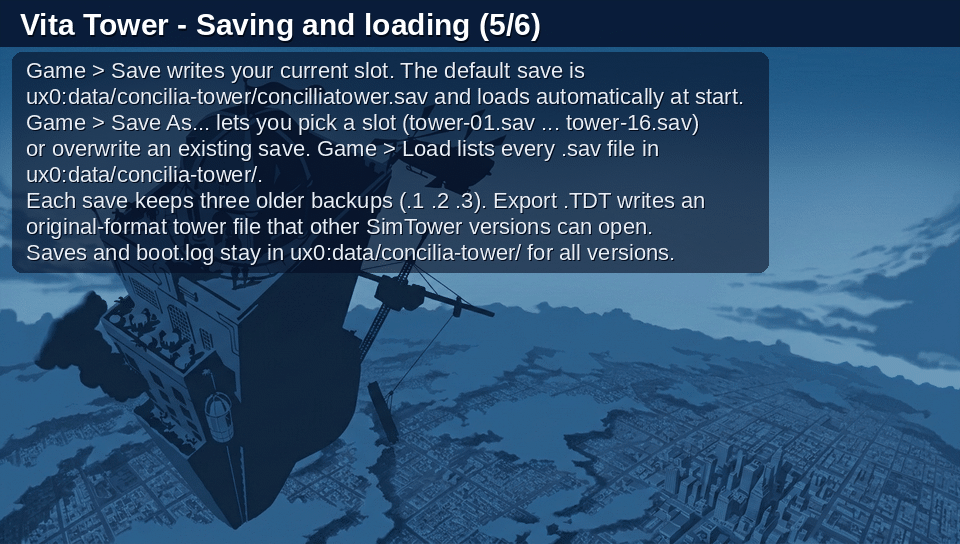
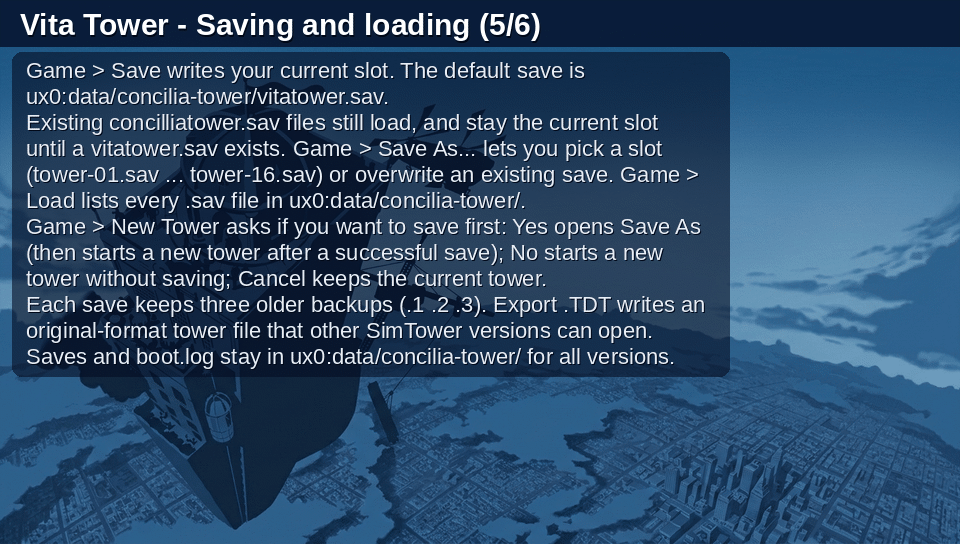
Vita v0.16: New Tower save prompt, default save name vitatower
Ask before starting a new tower when one is already in progress, so a
menu slip cannot wipe unsaved work. Yes always opens Save As; a
successful save then starts the new tower, and backing out of Save As
keeps the current tower. No starts a new tower without saving; Cancel
stays put. The prompt is skipped only on a fresh empty lot.

The default save file is now vitatower.sav. The folder remains
ux0:data/concilia-tower/, and existing concilliatower.sav files still
load.

Changed region(s): [[0.0, 0.0938, 0.8125, 0.7188]]

diff --git a/src/main.c b/src/main.c
@@ -550,6 +550,10 @@ typedef struct {
                                         (FileT 10d0:2a8e; strings survey
                                         gap #5) */
     GameSpeed       quit_saved_speed;
+#ifdef __vita__
+    int             new_tower_confirm;     /* save-before-New-Tower prompt */
+    GameSpeed       new_tower_saved_speed;
+#endif
     char            notice_text[192];
     char            notice_btn[32];
     uint16_t        notice_art;      /* sprite id of the dialog's DTMP art
@@ -4578,10 +4582,16 @@ static int  event_msg_total = 0;
  * snapshotted ENV, so an env var can no longer carry it. */
 #ifdef __vita__
 static int save_dialog_mode,save_dialog_page,save_dialog_count;
+static int new_tower_after_saveas; /* Yes on New Tower: Save As, then start new */
 static char save_dialog_names[96][CT_SAVE_NAME_MAX];
 static void open_save_dialog(int mode);
 static void render_save_dialog(void);
 static void save_dialog_event(SDL_Event *ev);
+static void start_new_tower(void);
+static void cancel_pending_new_tower(void);
+static void request_new_tower(void);
+static void render_new_tower_confirm(void);
+static void new_tower_confirm_click(int mx, int my);
 #endif
 static const char *save_path_override = NULL;
 static const char *save_path(void)
@@ -6334,6 +6344,53 @@ static void quit_confirm_click(int mx, int my)
         game.sim.speed = game.quit_saved_speed;
     }
 }
+
+#ifdef __vita__
+/* ---- New Tower save prompt: Yes = Save As, then start new on success ---- */
+#define NEWT_W 420
+#define NEWT_H 140
+
+static SDL_Rect newt_btn(int i)   /* 0 Yes / 1 No / 2 Cancel; 26px like other dialogs */
+{
+    int wx = (game.screen_w - NEWT_W) / 2;
+    int wy = (game.screen_h - NEWT_H) / 2;
+    int bw = 100, bh = 26, gap = 16;
+    int total = 3 * bw + 2 * gap;
+    int bx = wx + (NEWT_W - total) / 2;
+    return (SDL_Rect){ bx + i * (bw + gap), wy + NEWT_H - 40, bw, bh };
+}
+
+static void render_new_tower_confirm(void)
+{
+    if (!game.new_tower_confirm) return;
+    int wx = (game.screen_w - NEWT_W) / 2;
+    int wy = (game.screen_h - NEWT_H) / 2;
+    draw_dlg_frame((SDL_Rect){ wx, wy, NEWT_W, NEWT_H });
+    SDL_Color black = { 0, 0, 0, 255 };
+    draw_text_wrapped("Would you like to save your tower before starting a new one?",
+                      wx + 18, wy + 20, NEWT_W - 36, black);
+    draw_btn31(newt_btn(0), "Yes", 1, 1);   /* default / highlighted */
+    draw_btn31(newt_btn(1), "No", 0, 1);
+    draw_btn31(newt_btn(2), "Cancel", 0, 1);
+}
+
+static void new_tower_confirm_click(int mx, int my)
+{
+    if (point_in_rect(mx, my, newt_btn(0))) {
+        /* Yes: always open Save As. Start the new tower only after a
+         * successful save; backing out of Save As stays in this tower. */
+        game.new_tower_confirm = 0;
+        new_tower_after_saveas = 1;
+        open_save_dialog(1);
+    } else if (point_in_rect(mx, my, newt_btn(1))) {
+        game.new_tower_confirm = 0;
+        start_new_tower();
+    } else if (point_in_rect(mx, my, newt_btn(2))) {
+        game.new_tower_confirm = 0;
+        game.sim.speed = game.new_tower_saved_speed;
+    }
+}
+#endif
 
 /* ---- Route-loss confirmations (res 0x3ed, text verbatim) ----
  * The original pops a system-modal Yes/No MessageBox before a stop-toggle
@@ -8685,6 +8742,7 @@ static void render(void)
     render_route_confirm();    /* likewise */
     render_quit_confirm();     /* topmost — quitting outranks all */
 #ifdef __vita__
+    render_new_tower_confirm();
     render_save_dialog();
     render_manual();
 #endif
@@ -9220,8 +9278,63 @@ static int dropdown_hit_test(int mx, int my)
     return -1;
 }
 
-/* Save/load/export bodies shared by the F-keys and the Game menu. */
-static void do_save_game(void)
+/* Start over (the original's New Tower command). */
+static void start_new_tower(void)
+{
+#ifdef __vita__
+    new_tower_after_saveas = 0;
+    game.new_tower_confirm = 0;
+#endif
+    elv_edit_exit();
+    game.elv_open = 0;
+    game.inspect_tid = 0;
+    /* Hand back the plain pointer: the old game's build tool used to
+     * survive into the fresh lot, where its first stray click silently
+     * locked the lobby-height choice (an EXE quirk placement doesn't
+     * gate) and killed the corner-click egg (Jonah, 2026-08-10). */
+    game.build_type = ITEM_NONE;
+    game.tool_popup = -1;
+    game.dragging = 0;
+    /* The old tower's sounds stop with it (pending queue dies with the
+     * sim memset; this kills the already-ringing voices too). */
+    audio_stop_all();
+    tower_init(&game.tower);
+    game_init(&game.sim);
+    add_event_message("New tower started.");
+}
+
+#ifdef __vita__
+/* Skip the save prompt only when this is still a fresh empty lot
+ * (nothing built, lobby height still unlocked). Otherwise always ask. */
+static int tower_has_progress(void)
+{
+    return game.tower.tenant_count > 0 || game.tower.lobby_height != 0;
+}
+
+static void cancel_pending_new_tower(void)
+{
+    if (new_tower_after_saveas) {
+        new_tower_after_saveas = 0;
+        game.sim.speed = game.new_tower_saved_speed;
+    }
+}
+
+static void request_new_tower(void)
+{
+    if (!tower_has_progress()) {
+        start_new_tower();
+        return;
+    }
+    game.menu_open = -1;
+    game.new_tower_confirm = 1;
+    game.new_tower_saved_speed = game.sim.speed;
+    game.sim.speed = SPEED_PAUSED;
+}
+#endif
+
+/* Save/load/export bodies shared by the F-keys and the Game menu.
+ * Returns 0 on success, -1 on failure (same convention as game_save). */
+static int do_save_game(void)
 {
     /* Never serialize the Simulate mode's transient state (isolated shaft
      * flags, settled car positions): resolve it first, exactly as if
@@ -9232,8 +9345,10 @@ static void do_save_game(void)
         add_event_message("Game saved.");
         game.autosave_blocked = 0;   /* a deliberate save re-arms autosave */
         web_syncfs();
-    } else
-        add_event_message("Save FAILED!");
+        return 0;
+    }
+    add_event_message("Save FAILED!");
+    return -1;
 }
 
 static void do_load_game(void)
@@ -9293,10 +9408,14 @@ static void render_save_dialog(void)
 static void save_dialog_event(SDL_Event *ev)
 {
     if(ev->type==SDL_QUIT) { game.running=0;return; }
-    if(ev->type==SDL_KEYDOWN && (ev->key.keysym.sym==SDLK_ESCAPE || ev->key.keysym.sym==SDLK_F10)) { save_dialog_mode=0;return; }
+    if(ev->type==SDL_KEYDOWN && (ev->key.keysym.sym==SDLK_ESCAPE || ev->key.keysym.sym==SDLK_F10)) {
+        save_dialog_mode=0;cancel_pending_new_tower();return;
+    }
     if(ev->type!=SDL_MOUSEBUTTONDOWN || ev->button.button!=SDL_BUTTON_LEFT) return;
     SDL_Rect r=save_dialog_rect();int x=ev->button.x,y=ev->button.y;
-    if(point_in_rect(x,y,(SDL_Rect){r.x+r.w-94,r.y+338,80,26})) { save_dialog_mode=0;return; }
+    if(point_in_rect(x,y,(SDL_Rect){r.x+r.w-94,r.y+338,80,26})) {
+        save_dialog_mode=0;cancel_pending_new_tower();return;
+    }
     if(point_in_rect(x,y,(SDL_Rect){r.x+14,r.y+338,76,26})) { if(save_dialog_page) save_dialog_page--;return; }
     if(point_in_rect(x,y,(SDL_Rect){r.x+104,r.y+338,64,26})) {
         if((save_dialog_page+1)*8<save_dialog_count) save_dialog_page++;
@@ -9307,7 +9426,15 @@ static void save_dialog_event(SDL_Event *ev)
         if(point_in_rect(x,y,(SDL_Rect){r.x+14,r.y+72+row*29,r.w-28,26})) {
             int mode=save_dialog_mode;
             if(vita_set_save_name(save_dialog_names[i])<0) { CT_BOOT("Chooser rejected unsafe filename");return; }
-            save_dialog_mode=0;if(mode==1) do_save_game();else do_load_game();return;
+            save_dialog_mode=0;
+            if(mode==1) {
+                int ok = do_save_game()==0;
+                if(new_tower_after_saveas) {
+                    if(ok) { new_tower_after_saveas=0; start_new_tower(); }
+                    else cancel_pending_new_tower();
+                }
+            } else do_load_game();
+            return;
         }
     }
 }
@@ -9427,24 +9554,14 @@ static void execute_menu_item(const MenuItem *item)
         game.sim.speed = SPEED_PAUSED;
         break;
     case ACT_NEW_TOWER:
-        /* Start over (the original's New Tower command). The current game
-         * is NOT auto-saved — same as the EXE, which only asks on quit. */
-        elv_edit_exit();
-        game.elv_open = 0;
-        game.inspect_tid = 0;
-        /* Hand back the plain pointer: the old game's build tool used to
-         * survive into the fresh lot, where its first stray click silently
-         * locked the lobby-height choice (an EXE quirk placement doesn't
-         * gate) and killed the corner-click egg (Jonah, 2026-08-10). */
-        game.build_type = ITEM_NONE;
-        game.tool_popup = -1;
-        game.dragging = 0;
-        /* The old tower's sounds stop with it (pending queue dies with the
-         * sim memset; this kills the already-ringing voices too). */
-        audio_stop_all();
-        tower_init(&game.tower);
-        game_init(&game.sim);
-        add_event_message("New tower started.");
+#ifdef __vita__
+        /* Ask to save first when a tower is in progress, so New Tower
+         * cannot silently wipe unsaved work. */
+        request_new_tower();
+#else
+        /* Desktop/web: same as the EXE, which only asks on quit. */
+        start_new_tower();
+#endif
         break;
     case ACT_FINANCE: toggle_fin_dialog(); break;
     case ACT_SAVE:       do_save_game();  break;
@@ -9623,7 +9740,8 @@ static void cap_drag_track(void)
 static int vita_cancel_surface(void)
 {
     if(manual_open) { manual_close();return 1; }
-    if(save_dialog_mode) { save_dialog_mode=0;return 1; }
+    if(save_dialog_mode) { save_dialog_mode=0;cancel_pending_new_tower();return 1; }
+    if(game.new_tower_confirm) { game.new_tower_confirm=0;game.sim.speed=game.new_tower_saved_speed;return 1; }
     if(game.quit_confirm) { game.quit_confirm=0;game.sim.speed=game.quit_saved_speed;return 1; }
     if(game.route_confirm) { route_confirm_close();return 1; }
     if(game.notice_modal) { notice_close();return 1; }
@@ -9673,6 +9791,23 @@ static void handle_event(SDL_Event *ev)
 #ifdef __vita__
     if(manual_open) { manual_event(ev);return; }
     if(save_dialog_mode) { save_dialog_event(ev);return; }
+    if (game.new_tower_confirm) {
+        switch (ev->type) {
+        case SDL_QUIT: game.running = 0; break;
+        case SDL_MOUSEBUTTONDOWN:
+            if (ev->button.button == SDL_BUTTON_LEFT)
+                new_tower_confirm_click(ev->button.x, ev->button.y);
+            break;
+        case SDL_KEYDOWN:
+            if (ev->key.keysym.sym == SDLK_ESCAPE) {
+                game.new_tower_confirm = 0;
+                game.sim.speed = game.new_tower_saved_speed;
+            }
+            break;
+        default: break;
+        }
+        return;
+    }
 #endif
     /* Quit save-prompt: fully modal, topmost. */
     if (game.quit_confirm) {
@@ -11992,7 +12127,7 @@ int main(int argc, char *argv[])
          * clobbering the mode's isolated shaft flags. */
         if (!game.find_open && !game.elv_edit_mode
 #ifdef __vita__
-            && !save_dialog_mode && !manual_open
+            && !save_dialog_mode && !manual_open && !game.new_tower_confirm
 #endif
         ) {
             int prev_hour = game.sim.hour;

diff --git a/src/manual_text.h b/src/manual_text.h
@@ -4,7 +4,7 @@ static const char *const ct_manual_lines_0[]={"Outside menus and dialogs:","  Le
 static const char *const ct_manual_lines_1[]={"1. Pick an item from the Tools window or the Build Res. / Build Com. /","   Transport / Services menus. The pointer shows a crosshair.","2. Aim with the right stick or touch; the D-pad steps exactly one tile","   or one floor at a time.","3. Press Cross (or R / tap) to place. Hold and drag to lay a row of","   floors, offices or lobby in one go.","Everything above ground needs floor under it, and each new floor must sit","on the one below. The cost shows at the bottom of the Tools window; you","cannot build without enough funds.","Bulldozer (Square) removes what you click. Circle returns to the Hand."};
 static const char *const ct_manual_lines_2[]={"Tools window: Play/Pause at the top, then Bulldozer, Hand and Inspect,","then the build items. Items with a small corner triangle open a flyout","with related items (hotel rooms, food, transport and so on). New items","unlock as your tower earns stars.","Hand: the normal pointer. Double-click an elevator shaft for its settings.","Inspect: click a tenant or person to see details, rent and evaluation.","Tower Info (top right): clock, star rating, date, funds and population,","plus messages about events in your tower.","Map (left): click to jump the camera. The tabs switch between the plain","view, evaluation (blue good / yellow so-so / red bad), rent and hotel.","Drag any window by its title bar."};
 static const char *const ct_manual_lines_3[]={"Top menu > Tool Sizing changes only the Tools window and its buttons:","  Original size (1x), 25% larger (default) or 50% larger.","The check mark shows the current choice. It is saved to","ux0:data/concilia-tower/prefs.cfg and kept between sessions.","If 50% does not fit with many items unlocked, the window is shrunk just","enough to stay on screen. The Map is never resized."};
-static const char *const ct_manual_lines_4[]={"Game > Save writes your current slot. The default save is","ux0:data/concilia-tower/concilliatower.sav and loads automatically at start.","Game > Save As... lets you pick a slot (tower-01.sav ... tower-16.sav)","or overwrite an existing save. Game > Load lists every .sav file in","ux0:data/concilia-tower/.","Each save keeps three older backups (.1 .2 .3). Export .TDT writes an","original-format tower file that other SimTower versions can open.","Saves and boot.log stay in ux0:data/concilia-tower/ for all versions."};
+static const char *const ct_manual_lines_4[]={"Game > Save writes your current slot. The default save is","ux0:data/concilia-tower/vitatower.sav.","Existing concilliatower.sav files still load, and stay the current slot","until a vitatower.sav exists. Game > Save As... lets you pick a slot","(tower-01.sav ... tower-16.sav) or overwrite an existing save. Game >","Load lists every .sav file in ux0:data/concilia-tower/.","Game > New Tower asks if you want to save first: Yes opens Save As","(then starts a new tower after a successful save); No starts a new","tower without saving; Cancel keeps the current tower.","Each save keeps three older backups (.1 .2 .3). Export .TDT writes an","original-format tower file that other SimTower versions can open.","Saves and boot.log stay in ux0:data/concilia-tower/ for all versions."};
 static const char *const ct_manual_lines_5[]={"Start with a lobby on the ground floor; everything is reached through it.","Add floors, then offices: office workers pay rent and are your first income.","Condos sell once for a big payment. Fast food and shops feed and entertain","people. Hotel rooms need housekeeping and earn money each night.","Elevators: place a shaft, then drag its top or bottom to extend it. A shaft","serves at most 30 floors; express elevators skip floors and stop only at","lobbies (sky lobbies every 15 floors). Stairs and escalators work for","short trips. Long waits make tenants unhappy and they will move out.","Evaluation: use the Map's Eval tab or Inspect. Red tenants are unhappy -","fix transport, noise or missing services nearby.","Stars: grow the population and add the required facilities (security,","medical center, recycling, metro, ...) to earn stars. More stars unlock","more items. Watch for fires and bomb threats; security helps.","Speed: Play/Pause in Tools or the Speed menu."};
-static const CT_ManualSection ct_manual[]={{"Controls",ct_manual_lines_0,18},{"Building",ct_manual_lines_1,10},{"Tools and Tower Info",ct_manual_lines_2,11},{"Tool Sizing",ct_manual_lines_3,6},{"Saving and loading",ct_manual_lines_4,8},{"Playing Vita Tower",ct_manual_lines_5,14}};
+static const CT_ManualSection ct_manual[]={{"Controls",ct_manual_lines_0,18},{"Building",ct_manual_lines_1,10},{"Tools and Tower Info",ct_manual_lines_2,11},{"Tool Sizing",ct_manual_lines_3,6},{"Saving and loading",ct_manual_lines_4,12},{"Playing Vita Tower",ct_manual_lines_5,14}};
 #define CT_MANUAL_SECTIONS 6

diff --git a/src/vita_platform.c b/src/vita_platform.c
@@ -162,13 +162,31 @@ void vita_boost_clocks(void)
     vita_boot_log("clock setup status: arm=%d bus=%d gpu=%d xbar=%d; actual MHz ARM=%d bus=%d GPU=%d xbar=%d", arm, bus, gpu, xbar, scePowerGetArmClockFrequency(),scePowerGetBusClockFrequency(),scePowerGetGpuClockFrequency(),scePowerGetGpuXbarClockFrequency());
 }
 
+static char current_save[512]=CT_VITA_SAVE_DIR "/" CT_VITA_DEFAULT_SAVE;
+static int vita_save_file_exists(const char *path)
+{
+    FILE *f = fopen(path, "rb");
+    if (f) { fclose(f); return 1; }
+    return 0;
+}
+
 void vita_prepare_userdata(void)
 {
     int rc = sceIoMkdir(CT_DATA_DIR, 0777);
     vita_boot_log("data dir recheck: 0x%08x (already exists is normal); save directory=%s ready=%d", rc,CT_VITA_SAVE_DIR,CT_SaveDirectoryCreate(CT_VITA_SAVE_DIR));
+    /* Default slot is vitatower.sav. If only a legacy Concilia-named save
+     * exists, keep it as the current slot so old towers still load and
+     * Game > Save updates them. The folder path is unchanged. */
+    char neu[512], oldp[512];
+    if (CT_SavePathBuild(CT_VITA_SAVE_DIR, CT_VITA_DEFAULT_SAVE, neu, sizeof neu) == 0
+        && vita_save_file_exists(neu))
+        strcpy(current_save, neu);
+    else if (CT_SavePathBuild(CT_VITA_SAVE_DIR, CT_VITA_LEGACY_SAVE, oldp, sizeof oldp) == 0
+             && vita_save_file_exists(oldp))
+        strcpy(current_save, oldp);
+    vita_boot_log("active save path=%s", current_save);
 }
 
-static char current_save[512]=CT_VITA_SAVE_DIR "/concilliatower.sav";
 const char *vita_save_path(void) { return current_save; }
 int vita_set_save_name(const char *name)
 {

diff --git a/src/save_store.h b/src/save_store.h
@@ -2,6 +2,8 @@
 #define CT_SAVE_STORE_H
 #include <stddef.h>
 #define CT_VITA_SAVE_DIR "ux0:data/concilia-tower"
+#define CT_VITA_DEFAULT_SAVE "vitatower.sav"
+#define CT_VITA_LEGACY_SAVE  "concilliatower.sav"
 #define CT_SAVE_NAME_MAX 96
 int CT_SaveDirectoryCreate(const char *root);
 int CT_SavePathBuild(const char *root,const char *name,char *out,size_t size);

diff --git a/docs/VITA.md b/docs/VITA.md
@@ -37,10 +37,15 @@ Or: `make vita` (same steps).
 3. If the EXE is missing, the app shows an on-screen path reminder and waits
    for START/Circle rather than silently exiting.
 
-The default save remains `ux0:data/concilia-tower/concilliatower.sav`.
+The default save is `ux0:data/concilia-tower/vitatower.sav`. Existing
+`concilliatower.sav` files still load, and remain the current slot when no
+`vitatower.sav` exists yet. The folder path is unchanged so old saves and
+`prefs.cfg` keep working.
 Game > Save As offers numbered `tower-01.sav` ... `tower-16.sav` slots and
 existing `.sav` files; Game > Load lists that same userdata folder. Save uses
 the selected slot for the session. Autosave/exports also stay in userdata.
+Game > New Tower asks to save first when a tower is in progress; Yes opens
+Save As and starts the new tower only after a successful save.
 `--save`, `CT_SAVE`, cwd and `app0:` cannot redirect Vita saves.
 Save/load paths and results are flushed to `ux0:data/concilia-tower/boot.log`.
 
@@ -544,3 +549,21 @@ Build/package validated; Tyler will confirm v0.9 on hardware. No release/push.
   light 1px drop shadow (no box). EXE-check and fatal text is drawn over the
   art the same way: white 8x8 debug font with a light shadow only, so the
   background stays clean.
+
+
+## v0.16: New Tower save prompt, default save name (APP_VER 00.16)
+
+* Game > New Tower no longer wipes a tower in progress instantly. A modal
+  asks "Would you like to save your tower before starting a new one?" with
+  Yes (default, highlighted) / No / Cancel.
+* Yes always opens the Save As slot picker. A successful Save As then
+  starts the new tower; backing out of Save As, or a failed save, stays in
+  the current tower. No starts a new tower without saving. Cancel (or
+  Triangle / Escape) keeps the current tower.
+* The prompt is skipped only on a fresh empty lot (no tenants and lobby
+  height still unlocked). Otherwise it always appears.
+* Controls match other Vita dialogs: D-pad moves the highlight, Circle or
+  Cross confirms the highlighted button, Triangle cancels, touch works.
+  Buttons are the same 26px dialog size as the quit and notice prompts.
+* The default save file is now `vitatower.sav`. `ux0:data/concilia-tower/`
+  is unchanged, and existing `concilliatower.sav` files still load.

diff --git a/README.md b/README.md
@@ -20,7 +20,7 @@ buttons and touch screen, and an in-game manual.
 
 ## Download
 
-- **Latest:** [v0.15-beta](https://github.com/johnkeel105/vita-tower/releases/tag/v0.15-beta) (`VitaTower-v0.15.vpk`)
+- **Latest:** [v0.16-beta](https://github.com/johnkeel105/vita-tower/releases/tag/v0.16-beta) (`VitaTower-v0.16.vpk`)
 - **All builds:** [Releases](https://github.com/johnkeel105/vita-tower/releases) (pre-release betas)
 
 > **No game assets are included.** You must supply your own legally obtained
@@ -37,8 +37,10 @@ buttons and touch screen, and an in-game manual.
 3. Launch **Vita Tower** from the LiveArea.
 
 - Saves, preferences and `boot.log` live in **`ux0:data/concilia-tower/`**
-  (title ID `CTWR00001`). Save As offers slots `tower-01.sav` to `tower-16.sav`;
-  older generations are kept as `.1`/`.2`/`.3` backups.
+  (title ID `CTWR00001`). The default save is `vitatower.sav`; existing
+  `concilliatower.sav` files still load. Save As offers slots `tower-01.sav`
+  to `tower-16.sav`; older generations are kept as `.1`/`.2`/`.3` backups.
+  Game > New Tower asks whether to save first (Yes opens Save As).
 - Uses the native GXM renderer: **`libshacccg.suprx` is not required.**
 - Problems? Send `ux0:data/concilia-tower/boot.log`.
 
